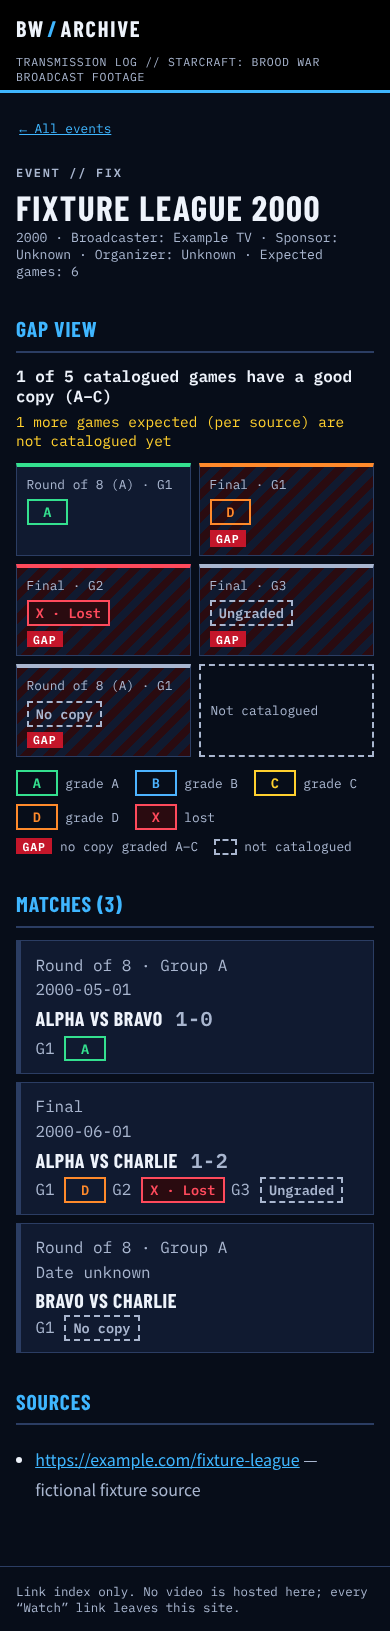
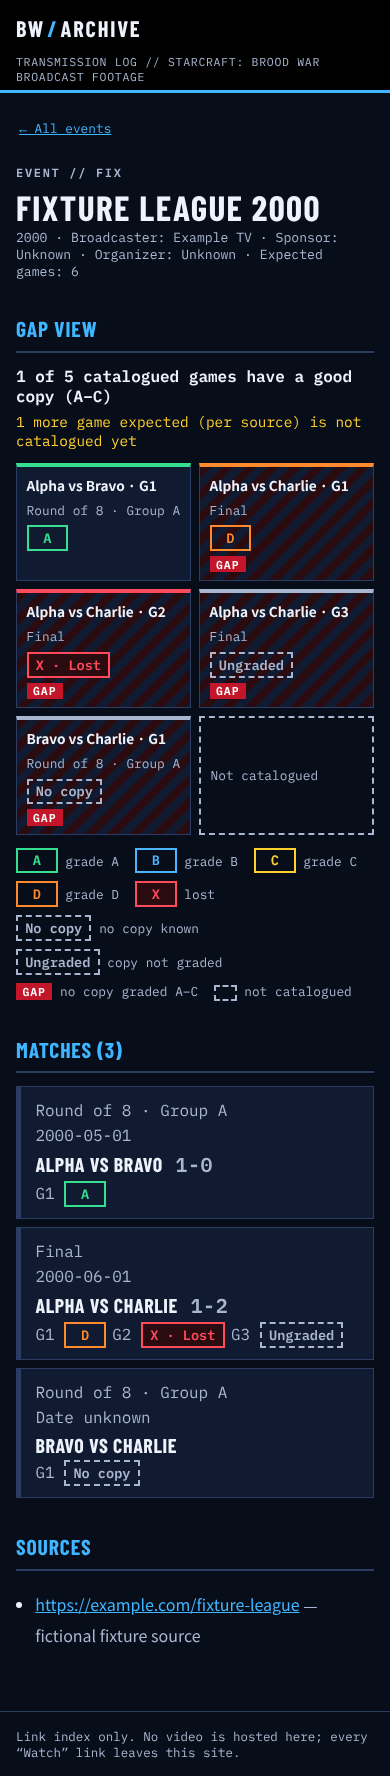
Gap grid: match labels, shared stageOf, pluralised shortfall, fuller legend, stronger tests, regenerated screenshots

diff --git a/test/gap.test.js b/test/gap.test.js
@@ -2,24 +2,56 @@ import { test } from 'node:test';
 import assert from 'node:assert/strict';
 import { execSync } from 'node:child_process';
 import fs from 'node:fs';
+import os from 'node:os';
+import path from 'node:path';
 
-test('event gap grid', () => {
-  fs.rmSync('dist', { recursive: true, force: true });
-  execSync('npm run build', { env: { ...process.env, CATALOG_DIR: 'test/fixtures/catalog' }, stdio: 'pipe' });
-  const html = fs.readFileSync('dist/events/fixture-league/index.html', 'utf8');
-  const cell = (match, set) => {
-    const tags = html.match(/<a class="gcell"[^>]*>/g) ?? [];
-    const t = tags.find((a) => a.includes(`/matches/fixture-league/${match}/"`) && a.includes(`data-set="${set}"`));
-    assert.ok(t, `cell ${match} G${set}`);
-    return t;
-  };
+const FIXTURE = 'test/fixtures/catalog';
+// Own outDir so this file never races other tests over dist/.
+const buildEvent = (catalogDir) => {
+  const out = fs.mkdtempSync(path.join(os.tmpdir(), 'bw-gap-'));
+  execSync(`npm run build -- --outDir ${out}`, { env: { ...process.env, CATALOG_DIR: catalogDir }, stdio: 'pipe' });
+  return fs.readFileSync(`${out}/events/fixture-league/index.html`, 'utf8');
+};
+const cells = (html) => (html.match(/<a class="gcell"[\s\S]*?<\/a>/g) ?? []);
+const find = (html, match, set) => {
+  const c = cells(html).find((a) => a.includes(`/matches/fixture-league/${match}/"`) && a.includes(`data-set="${set}"`));
+  assert.ok(c, `cell ${match} G${set}`);
+  return c;
+};
+const badge = (c) => c.match(/<span class="grade"[^>]*>([^<]*)<\/span>/)[1];
+
+test('fixture event gap grid', () => {
+  const html = buildEvent(FIXTURE);
   assert.match(html, /class="gapgrid"/);
-  assert.match(cell('ro8-a-1', 1), /data-grade="A"[^>]*data-gap="false"/);
-  assert.match(cell('ro8-a-2', 1), /data-grade="none"[^>]*data-gap="true"/);
-  assert.match(cell('final', 1), /data-grade="D"[^>]*data-gap="true"/);
-  assert.match(cell('final', 2), /data-grade="X"[^>]*data-gap="true"/);
-  assert.match(cell('final', 3), /data-grade="none"[^>]*data-gap="true"/);
-  assert.match(html, /data-good="1" data-total="5"/);
-  assert.match(html, /1 of 5 catalogued/);
+  const expected = [
+    ['ro8-a-1', 1, 'A', 'false', 'A', 'Alpha vs Bravo · G1'],
+    ['ro8-a-2', 1, 'none', 'true', 'No copy', 'Bravo vs Charlie · G1'],
+    ['final', 1, 'D', 'true', 'D', 'Alpha vs Charlie · G1'],
+    ['final', 2, 'X', 'true', 'X · Lost', 'Alpha vs Charlie · G2'],
+    ['final', 3, 'none', 'true', 'Ungraded', 'Alpha vs Charlie · G3'],
+  ];
+  for (const [m, set, grade, gap, text, label] of expected) {
+    const c = find(html, m, set);
+    assert.ok(c.includes(`data-grade="${grade}"`), `${m} G${set} grade`);
+    assert.ok(c.includes(`data-gap="${gap}"`), `${m} G${set} gap`);
+    assert.equal(badge(c), text, `${m} G${set} badge`);
+    assert.equal(c.includes('class="gaptag"'), gap === 'true', `${m} G${set} GAP tag`);
+    assert.ok(c.includes(label), `${m} G${set} label ${label}`);
+  }
+  assert.ok(html.includes('data-good="1" data-total="5"'));
+  assert.ok(html.includes('1 of 5 catalogued games have a good copy (A–C)'));
+  assert.ok(html.includes('1 more game expected (per source) is not catalogued yet'));
   assert.equal((html.match(/data-placeholder="true"/g) ?? []).length, 1);
+});
+
+test('event with no matches shows only placeholders, no summary', () => {
+  const dir = fs.mkdtempSync(path.join(os.tmpdir(), 'bw-cat66-'));
+  fs.cpSync(FIXTURE, dir, { recursive: true });
+  fs.rmSync(`${dir}/matches/fixture-league`, { recursive: true });
+  const ev = `${dir}/events/fixture-league.yaml`;
+  fs.writeFileSync(ev, fs.readFileSync(ev, 'utf8').replace('expected_games: 6', 'expected_games: 66'));
+  const html = buildEvent(dir);
+  assert.equal((html.match(/data-placeholder="true"/g) ?? []).length, 66);
+  assert.ok(html.includes('66 more games expected (per source) are not catalogued yet'));
+  assert.ok(!html.includes('gap-summary'));
 });

diff --git a/test/site.test.js b/test/site.test.js
@@ -40,7 +40,7 @@ test('fixture catalog renders everything it knows', async (t) => {
       for (const s of e.sources) has(html, s.url);
       for (const u of Object.values(e.field_sources ?? {})) has(html, u);
       for (const m of cat.matches.filter((x) => x.event === e.id)) {
-        const row = html.split(`href="${BASE}matches/${m.event}/${m.id}/"`)[1]?.split('</a>')[0];
+        const row = html.split(`class="row" href="${BASE}matches/${m.event}/${m.id}/"`)[1]?.split('</a>')[0];
         assert.ok(row, `no link for ${m.fullId}`);
         for (const g of m.games) {
           const want = bestGrade(g) ?? 'none';

diff --git a/src/styles/site.css b/src/styles/site.css
@@ -86,3 +86,4 @@ h2{font-size:1.35rem;color:var(--accent);border-bottom:2px solid var(--line);pad
 .legend-empty{display:inline-block;width:1.4rem;height:1rem;border:2px dashed var(--mute);vertical-align:middle}
 .sr{position:absolute;width:1px;height:1px;overflow:hidden;clip:rect(0 0 0 0);white-space:nowrap}
 .refhead{font-size:1.05rem;margin:1rem 0 .2rem;color:var(--mute)}
+.gcell .who{font-weight:700;font-size:.85rem}

diff --git a/src/lib/catalog.js b/src/lib/catalog.js
@@ -30,3 +30,6 @@ export function host(url) {
 export function href(p) {
   return `${import.meta.env.BASE_URL.replace(/\/$/, '')}/${p}`.replace(/\/+$/, '/');
 }
+
+/** "Round of 8 · Group A" style stage line for a match. */
+export const stageOf = (m) => [m.stage ?? 'Stage unknown', m.group && `Group ${m.group}`].filter(Boolean).join(' · ');
